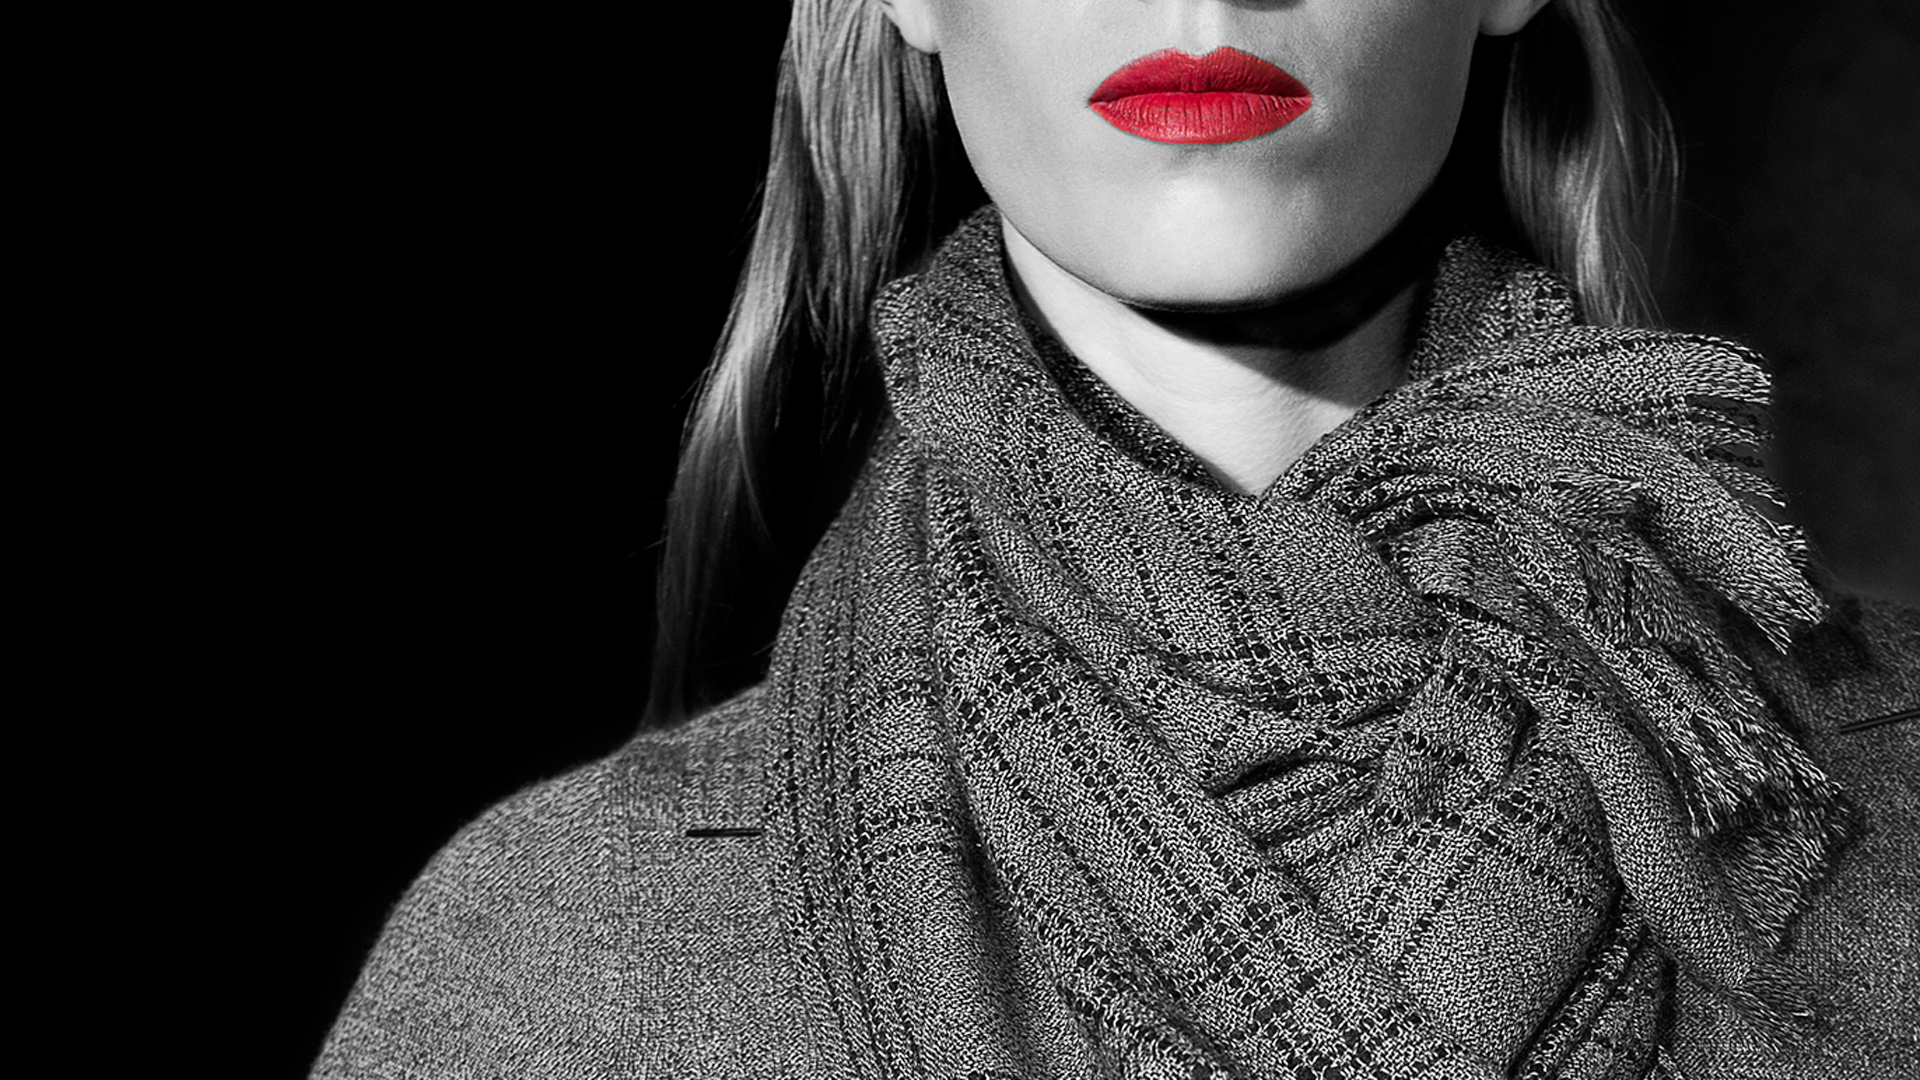
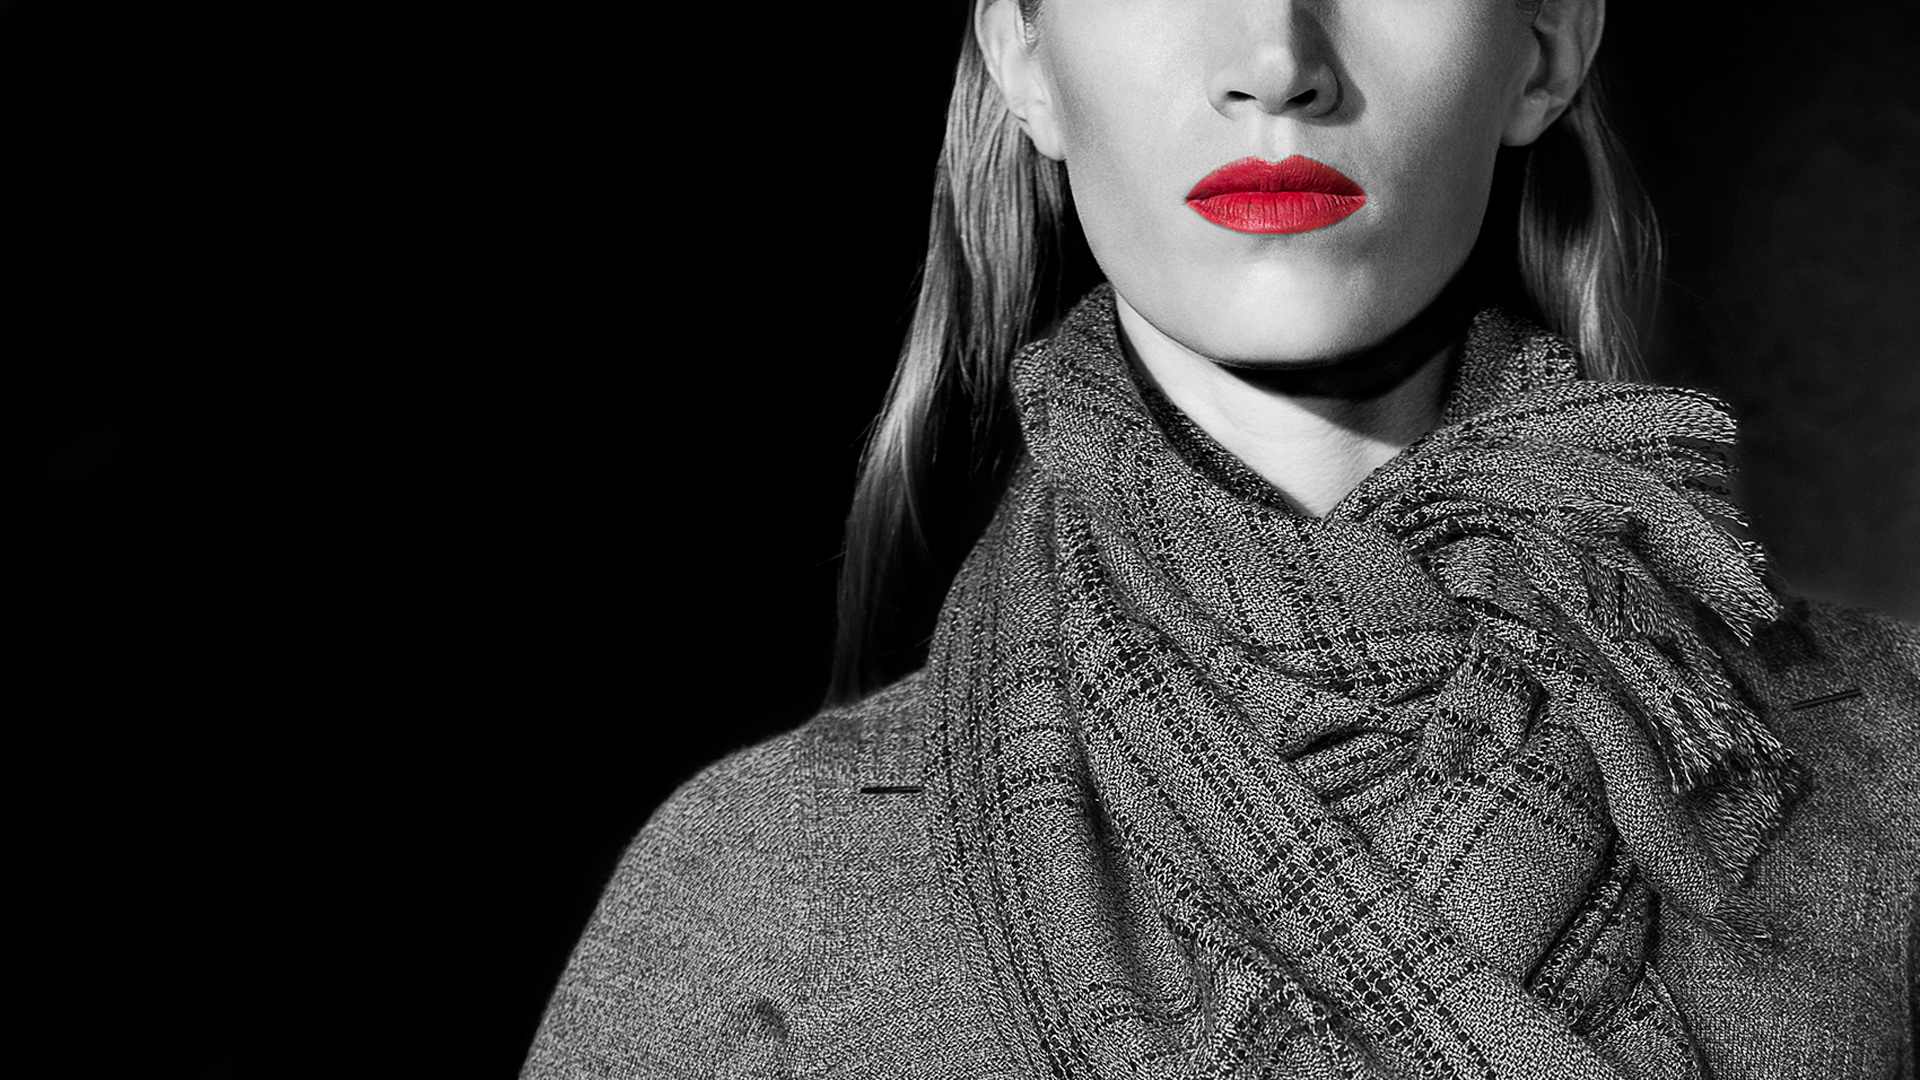
Update bg images and home heading right

diff --git a/css/style.fw17.css b/css/style.fw17.css
@@ -525,7 +525,7 @@ nav .active:hover {
   line-height: 1;
   position: fixed;
   /*right: 70px;*/
-  left: 70px;
+  right: 70px;
   bottom: 90px;
   display: none;
 }
